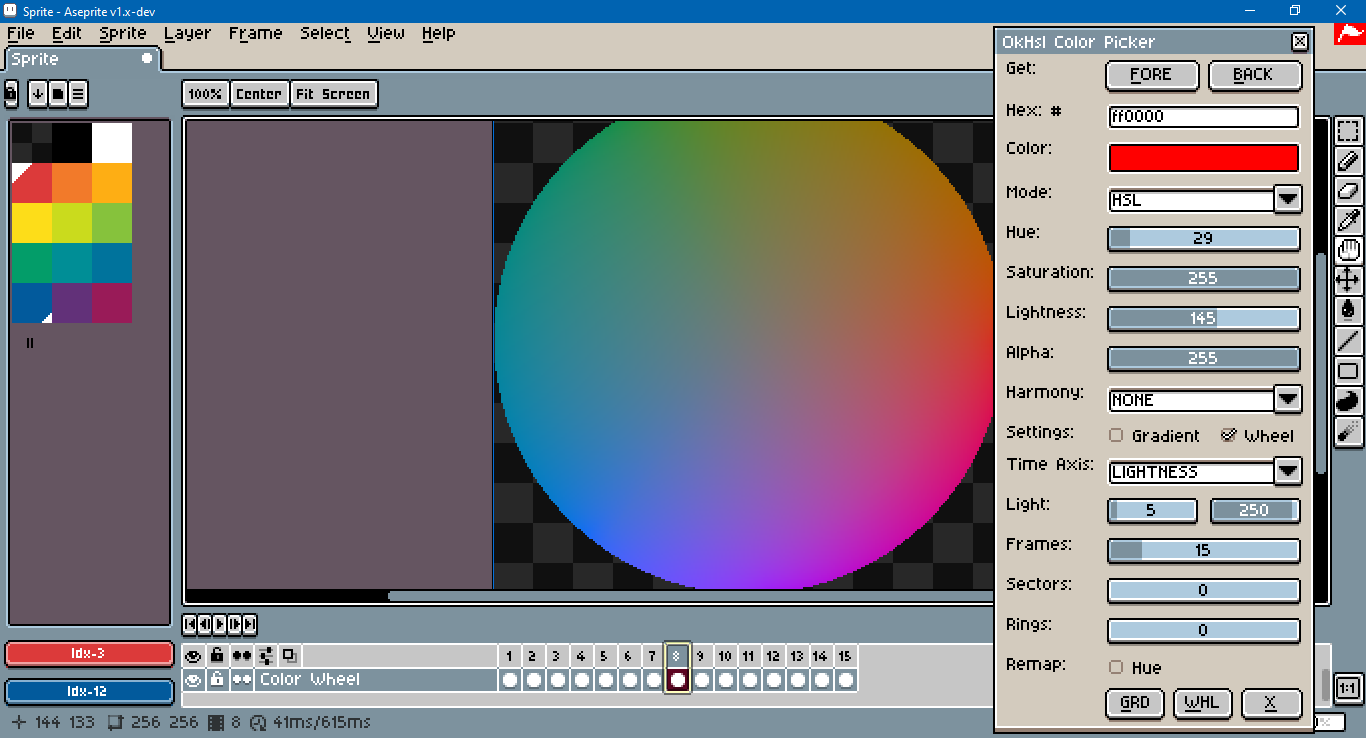
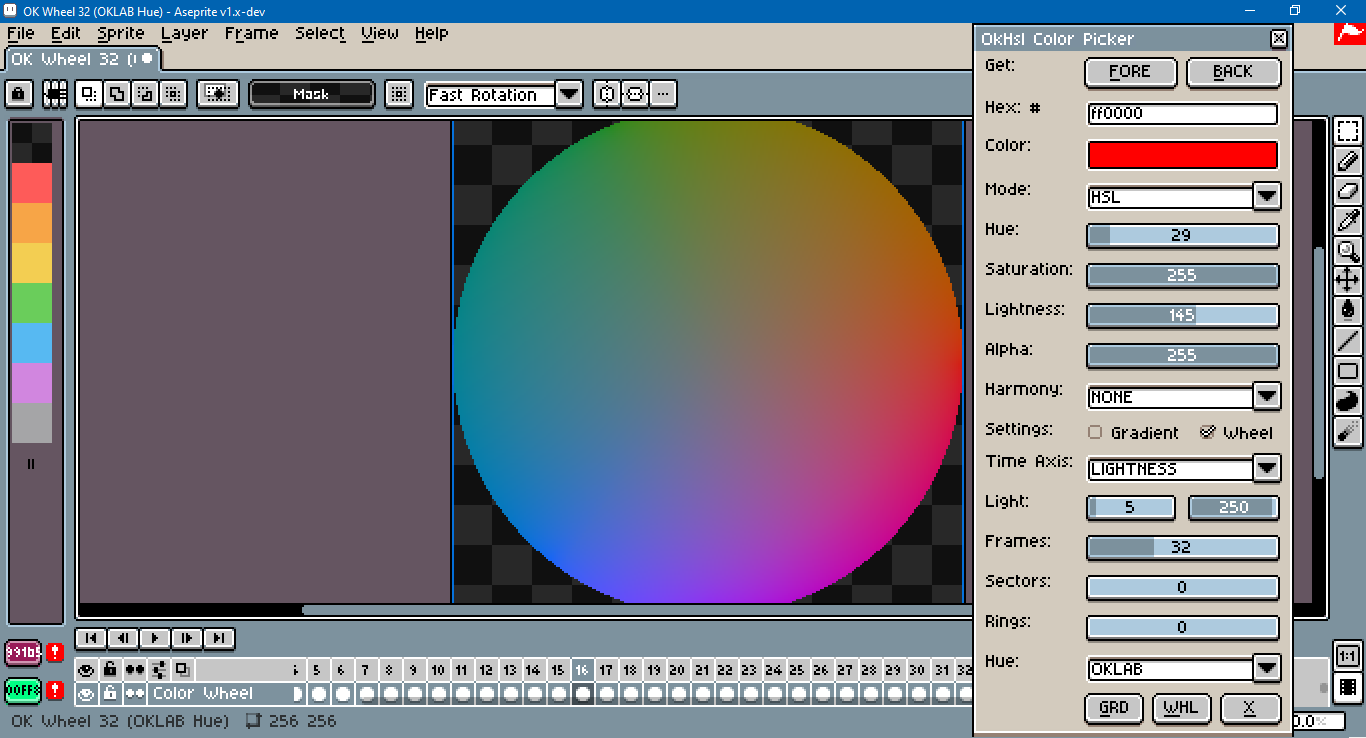
Add more hue remap functions. Place picker dialog on the left.

diff --git a/README.md b/README.md
@@ -38,11 +38,11 @@ When the `WHL` button is clicked, a new sprite is created. When saturation varie
 
 ![Discrete Wheels](discreteWheels.png)
 
-Click on the `Settings` toggle for `Wheel` to show more options. For example, the `Sectors` and `Rings` sliders can be used to make the color wheel discrete in a fashion similar to Aseprite's built-in color wheels.
+Click on the `Settings` toggle for `Wheel` to show more options. For example, the `Sectors` and `Rings` sliders can be used to make the color wheel discrete in a fashion similar to Aseprite's built-in color wheels. The color property that varies by frame will depend on whether the `Mode` is `HSL` or `HSV`: the choice is between `SATURATION` and `LIGHTNESS` or between `SATURATION` and `VALUE`. 
 
-![Saturation Axis](altWheel0.png) ![Hue Remap](altWheel1.png)
+![Hue Remap Comparison](hueRemap.png)
 
-The color property that varies by frame will depend on whether the `Mode` is `HSL` or `HSV`: the choice is between `SATURATION` and `LIGHTNESS` or between `SATURATION` and `VALUE`. The hue can also be remapped to that of a red-yellow-blue color wheel.
+The hue can also be remapped to one of three options: RGB, RYGB and RYB.
 
 ### Gradient
 
